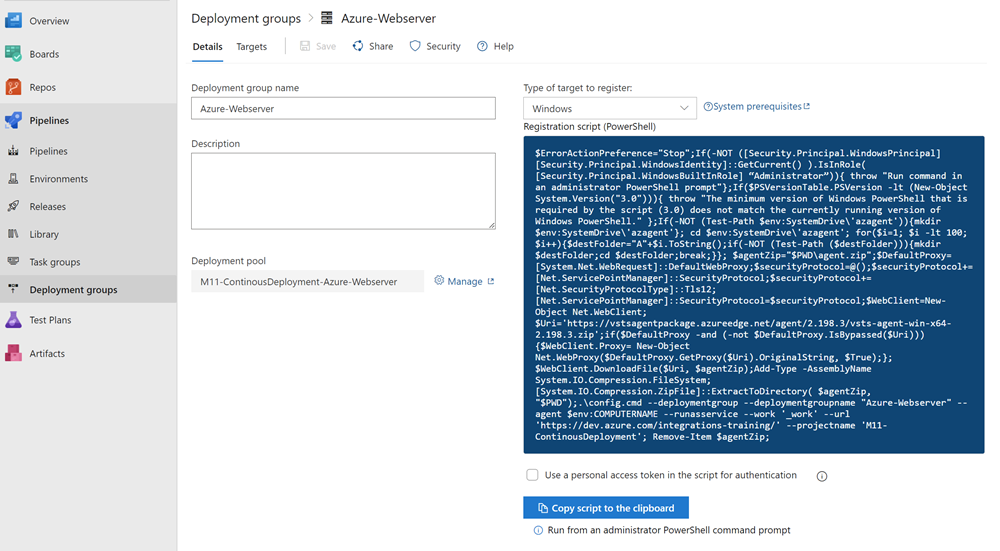
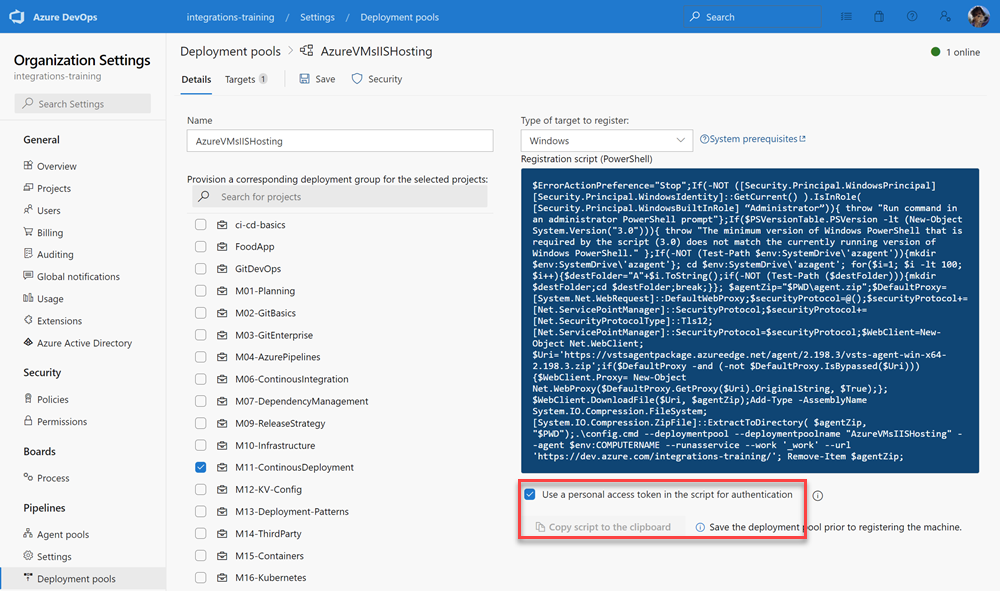
m02-demo-02

diff --git a/Demos/11-CD/Demo-02/readme.md b/Demos/11-CD/Demo-02/readme.md
@@ -7,31 +7,32 @@
 
 Execute `create-deployment-vm.azcli` to create a vm to deploy to
 
-Ensure that IIS is installed. To install all feature use an elevated PowerShell prompt and execute:
-
-```
-Get-WindowsOptionalFeature -Online | where FeatureName -like 'IIS-*'
-```
-
-Create a deployment group. Copy Script and execute in an elevated PowerShell prompt:
-
-![create-deployment-grp](_images/create-deployment-grp.png)
-
->Note: You can also use the vm from module 04 or install the agent using choco:
+Ensure that requirements are installed. To install all feature use an elevated PowerShell prompt and execute `install-sw.ps1`:
 
 ```powershell
 Set-ExecutionPolicy Bypass -Scope Process -Force; 
 [System.Net.ServicePointManager]::SecurityProtocol = [System.Net.ServicePointManager]::SecurityProtocol -bor 3072; 
 Invoke-Expression ((New-Object System.Net.WebClient).DownloadString('https://chocolatey.org/install.ps1'))
 
+Get-WindowsOptionalFeature -Online | where FeatureName -like 'IIS-*'
 
-choco install azure-pipelines-agent --params "'/Directory:c:\agent'" -y
+choco install dotnet-6.0-runtime -y
+choco install dotnet-6.0-windowshosting -y
+
+Restart-Computer -ComputerName localhost -Force
 ```
 
-Complete the agent config:
+Create a deployment group. Copy Script. It contains an access token:
+
+![create-deployment-grp](_images/create-deployment-grp.png)
+
+>Note: You can also use the vm from module 04 or install the agent using choco:
+
+Complete the agent config on the VM:
 
 ```PowerShell
 cd \agent
+...
 .\config.cmd --deploymentgroup --deploymentgroupname "Azure-Webserver" --agent $env:COMPUTERNAME --runasservice --work '_work' \
 --url 'https://dev.azure.com/integrations-training/' \
 --projectname 'M11-ContinousDeployment' --auth PAT --token exaymaqys....
@@ -42,3 +43,7 @@ cd \agent
 Check the agent:
 
 ![check-targets](_images/check-targets.png)
+
+Import `api-build-deploy-iis.yaml` adjust variables and execute pipeline:
+
+![pipeline](_images/pipeline.png)
